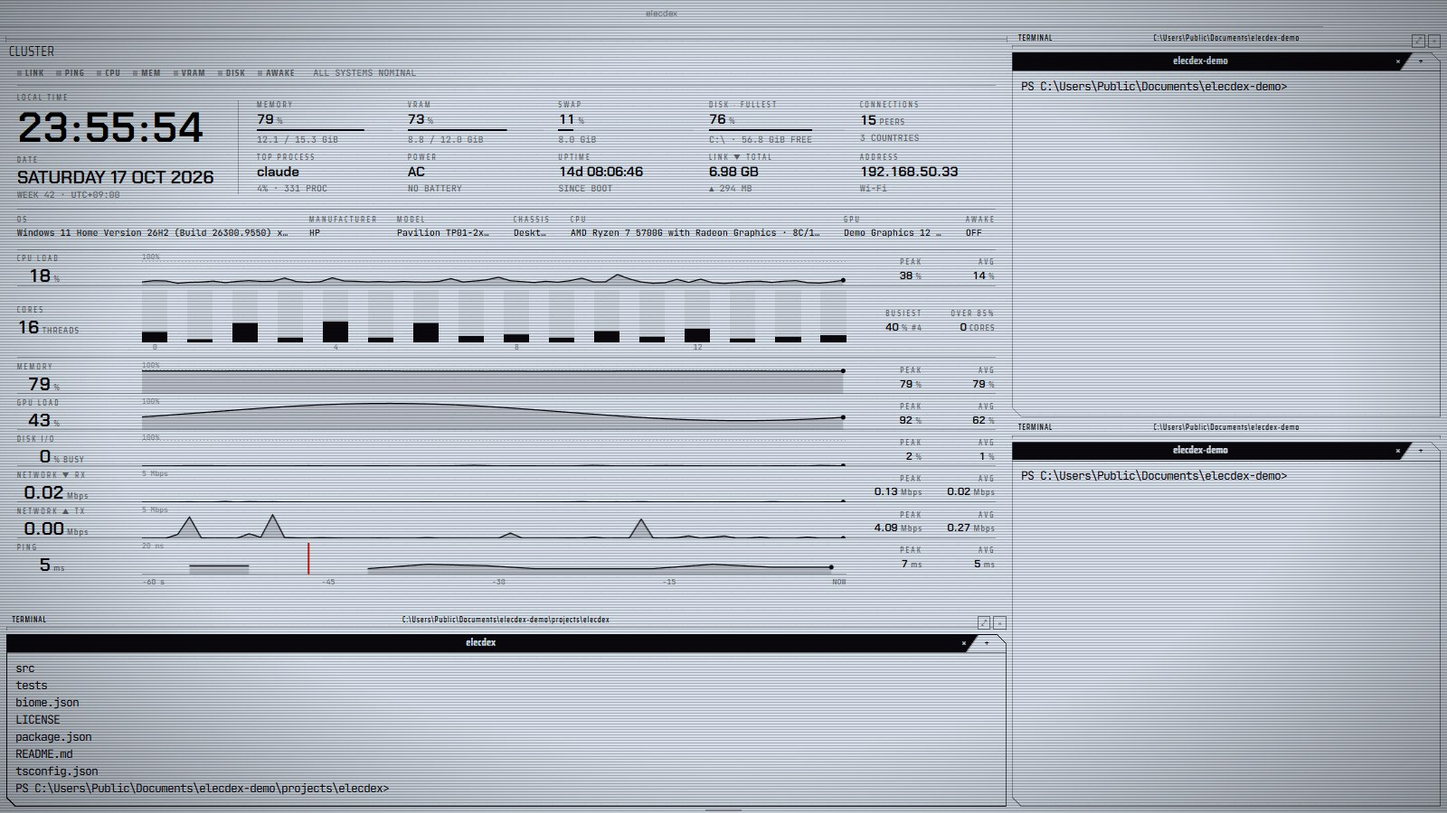
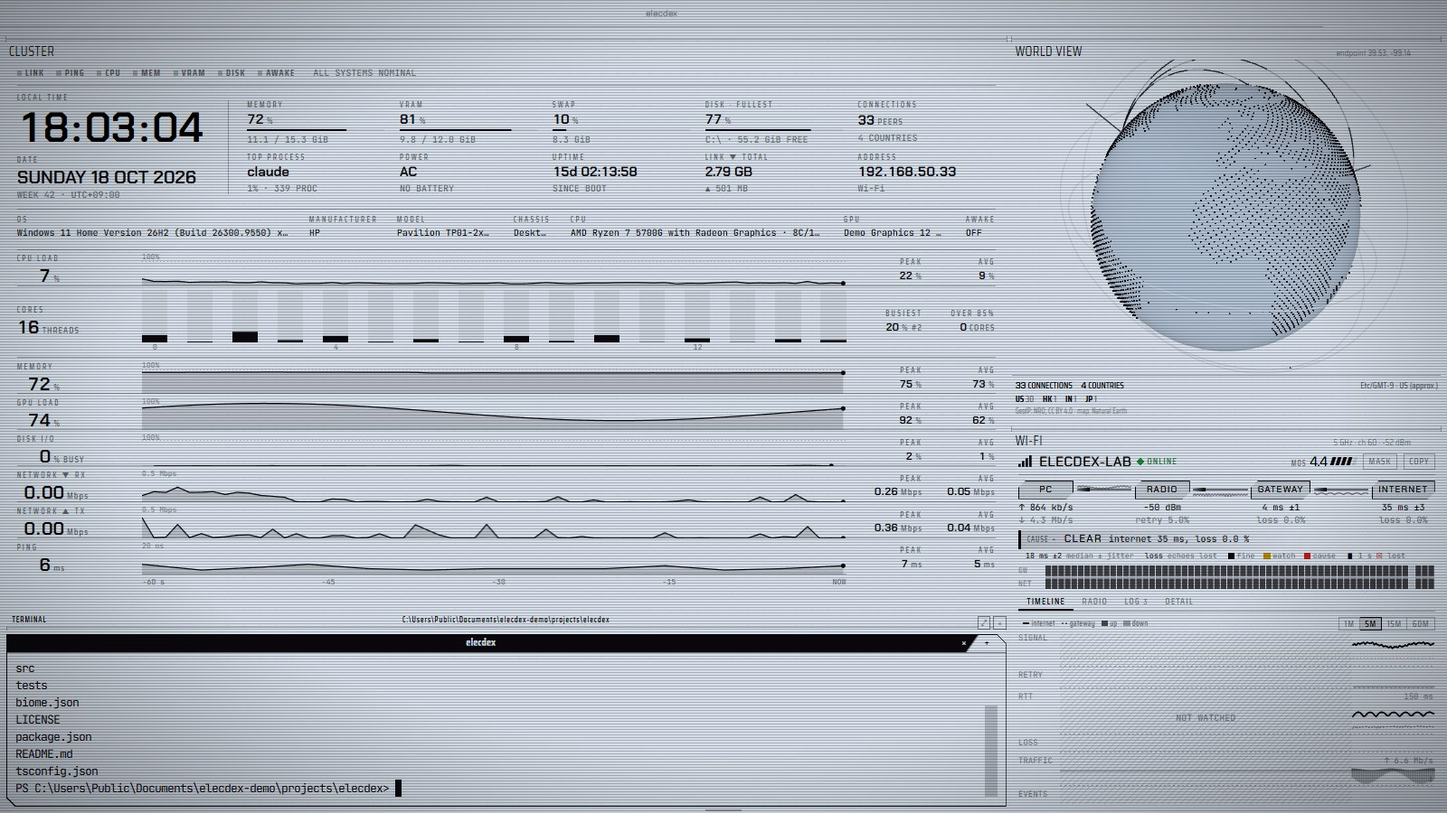
feat(layout): cockpit shows the world view over the Wi-Fi pane beside CLUSTER / cockpit で CLUSTER の右に world view と Wi-Fi を置く
The cockpit preset's right column held two shells; it now holds the world view on top and the Wi-Fi pane under it, and the shell under CLUSTER stays (user decision 2026-10-18). The unit test, the READMEs, the docs and the README shot follow. / cockpit プリセットの右列は上下 2 つのシェルだったが、上に world view、下に Wi-Fi ペインを置く。CLUSTER の下のシェルは残す（2026-10-18、利用者の指定）。単体テスト、README、ドキュメント、README のスクリーンショットも合わせる。

diff --git a/src/shared/layout-presets.ts b/src/shared/layout-presets.ts
@@ -206,18 +206,19 @@ export const LAYOUT_PRESETS: readonly LayoutPreset[] = [
   },
   {
     // The machine on one pane where the system column would be, large enough at 1600x900 to lay
-    // itself out at its widest with what the machine is and every core, a shell under it and two more one over the other beside it
-    // (user decision 2026-10-10). The one preset without the system column: CLUSTER says what
-    // the column does, and more.
+    // itself out at its widest with what the machine is and every core, a shell under it, and
+    // beside it the world view over the Wi-Fi pane (user decisions 2026-10-10, 2026-10-18). The
+    // one preset without the system column: CLUSTER says what the column does, and more.
     id: 'cockpit',
     name: 'cockpit',
-    description: 'the whole machine on one pane, with shells under it and beside it',
+    description:
+      'the whole machine on one pane, a shell under it, the world and the link beside it',
     build: () =>
       split(
         'row',
         [
           split('column', [pane('cluster'), pane('terminal')], [0.75, 0.25]),
-          split('column', [pane('terminal'), pane('terminal')], [0.5, 0.5]),
+          split('column', [pane('globe'), pane('wifi')], [0.5, 0.5]),
         ],
         [0.7, 0.3],
       ),

diff --git a/tests/unit/layout-presets.test.ts b/tests/unit/layout-presets.test.ts
@@ -197,8 +197,9 @@ describe('LAYOUT_PRESETS', () => {
   })
 
   it('gives cockpit the CLUSTER pane in place of the system column, at its widest with every core', () => {
-    // Three shells: one under CLUSTER, two one over the other on the right (user decision 2026-10-10).
-    expect(places('cockpit')).toEqual([['cluster'], ['terminal'], ['terminal'], ['terminal']])
+    // A shell under CLUSTER (user decision 2026-10-10); on the right the world view over the
+    // Wi-Fi pane (user decision 2026-10-18).
+    expect(places('cockpit')).toEqual([['cluster'], ['terminal'], ['globe'], ['wifi']])
     const shape = layoutShape(presetTree(presetById('cockpit') as LayoutPreset))
     expect(shape.some((r) => LEFT_COLUMN.includes(r.widget))).toBe(false)
     const cluster = shape.find((r) => r.widget === 'cluster')

diff --git a/docs/decisions.md b/docs/decisions.md
@@ -369,7 +369,7 @@
 | CLUSTER ペイン（2026-10-10、利用者の決定。詳細は cluster.md §0） | 1 枚のダッシュボード。main がすでに出しているもの（metrics のソース 12、AWAKE のストア、`quakes.observe`）だけを読み、main・preload・ほかのペインに手を入れない。LANES 案（警告灯、時計と日付、CPU・メモリ・ディスク I/O・RX・TX・PING の 60 秒のレーン、余裕があればコアごとの今、スロット）。値は届いたその場で描き、レーンは塗りのある折れ線で、値が届いたときに描き直すだけでアニメーションしない（2 コマで詰める動きは変に見え、棒は低い値が見えなかったので、利用者が見直した。流し続けず、StreamChart の 2 秒遅れも使わない）。CPU・メモリ・ディスク I/O は 0〜100%、ネットワークと PING は直近 1 分に合わせた目盛り。続く動きは 10 fps ループのコマ。当てはまらない警告灯（電池のない機械の BATT、地震の通知がオフの QUAKE）は出さない。設定は持たない | 置き場所を選ばない 1 枚で済ませるため。流し続けないので値と値の間は描かず、測ると 1920×1080 の全画面 1 枚で 1 コアの 10.3%（棒のときは 15.0%。折れ線の塗りを CPU ペインと同じ帯ごとのグラデーションにすると 35% かかったので、一色の薄い塗りにした）（時計だけ 5.7%、CPU・メモリ・通信量・ディスクの 4 ペインと時計で 24.1%、2026-10-10 Windows 11 で各 20 秒） |
 | CLUSTER の仕様の行（2026-10-10、利用者の提案と決定） | TYPE・OS・MANUFACTURER・MODEL・CHASSIS・CPU・INTERFACE・IPV4 を、standard のシステム列と network status と同じ言い方で 1 行に。ホスト名は出さない。高さが余るときだけ出す（wide で 510、medium で全部と 75 px）。cockpit の CLUSTER は高さを 7.5 割にし、コアの行は 600 から | cockpit ではシステム列が無いので、機械が何かが見えなくなる。段を下げてまで出すとレーンが減るので、余りにだけ置く |
 | CLUSTER のレビュー（2026-10-14） | 指摘を実際のコードで確かめて直した。赤い灯がタブの裏や最小化中もパルス（1 秒に 4 回の書き込み）を持っていた。レーンはサンプルのたびに観測を作り直し、ビットマップを 2 回作り直して 2 回描いていた。さらにどのソースの読み取りでもペインの表示が新しくなるたびに描き直しており、実測で 1 本あたり 1 秒に約 3 回（6 本で 3 秒に 54〜72 回）。大きさと色の準備と描画を分け、同じ秒と同じ面なら描かない（1 秒に 1 回）。隠れている間も毎秒表示全体を計算して捨てていた。狭い段でスクロールすると、カードがスクロール量だけ上にずれた（カードの層をスクロール位置に置く）。最初の計測を既定の段（wide）からの縮みとして判定していた。年の何日目が夏時間の日に 1 日少なかった。充電の割合を言わない電池を NO BATTERY と出していた。速度は読めて使用率を言わない OS のディスク I/O を `N/A` に。目盛りの文字を線の下に描く。ADDRESS のカードからインターフェース（スロットに出ている）を外した。`busiestCore` を使う。docs/cluster.md のファイル名を実際に合わせた。見送り: 灯を消すときの猶予と、隠れていた間の古い PING を灯の判定から外すこと（灯の規則に関わる）、`readColors` の他ペインとの共通化、時計の秒で全部の数字を作り直すこと、61 秒目の履歴、PING や Gbps の桁幅。 |
-| cockpit プリセット（2026-10-10、利用者の決定） | CLUSTER を左上（幅 7 割、高さ 7.5 割。高さは仕様の行を入れたときに 7 割から広げた）に、その下にシェル、右に上下 2 段のシェル。ai の後、retro の前の 8 番目に置き、キーは Ctrl+Shift+F8（retro は最後の 9 番目で F9 に。利用者の指定）。プリセットで唯一システム列を持たない（`WITH_SYSTEM_COLUMN`） | CLUSTER が列の役目を果たし、列を残すと表示が二重になり CLUSTER も狭くなる。7 割にしたのは、README のスクリーンショット（1600×900）でも wide の段でコアの行まで出るため |
+| cockpit プリセット（2026-10-10、利用者の決定） | CLUSTER を左上（幅 7 割、高さ 7.5 割。高さは仕様の行を入れたときに 7 割から広げた）に、その下にシェル、右に上下 2 段のシェル（右列は 2026-10-18 に world view と Wi-Fi に変更、利用者の指定）。ai の後、retro の前の 8 番目に置き、キーは Ctrl+Shift+F8（retro は最後の 9 番目で F9 に。利用者の指定）。プリセットで唯一システム列を持たない（`WITH_SYSTEM_COLUMN`） | CLUSTER が列の役目を果たし、列を残すと表示が二重になり CLUSTER も狭くなる。7 割にしたのは、README のスクリーンショット（1600×900）でも wide の段でコアの行まで出るため |
 | Black テーマ（2026-10-10、利用者の求め） | White を反転させたテーマ。文字（アクセント）は #0A080D、地は #D7E0EA（浮き上がる面は少し明るい #E4EAF1、格子は少し暗い #C4CEDA）。White と同じ走査線を引き、光彩はほんのわずか（0.1。淡い地ではインクのにじみになるため）。`mode: 'light'` で、状態色は暗めになり、xterm は淡い色を読める濃さまで引き上げる。README の cockpit の画像はこのテーマで撮る | 真っ白・真っ黒ではない、elec シリーズの色の組を明るい地で使うため |
 | ペイン基盤の見直し（2026-10-11、利用者の指示。v0.0.26） | キーボードのリセット（Ctrl+Shift+Backspace）はシェルが開いていれば切り替えと同じ確認を通す（`layout.confirmReset` → `mayReplace`、ダイアログの文言だけ reset）。`normalizeTree` は id を一意にしてから整える。分割・タブ追加は対象が無くなっていれば何もしない（フォーカスも音も変えない）。閉じている途中に 2 枚のタブのグループを閉じると、残った 1 枚を閉じる。保存の失敗（続く間は 1 回だけ）・リセットの失敗・もう無いレイアウトの適用はトーストで言い、最後のものは一覧を読み直す。シェルの掃除はペインの増減（`paneIds`）でだけ張り直す。ボタンのツールチップのキーは今の割り当てから（`chordHint`）。区切り線のダブルクリックで両隣の 2 つを等分（利用者の採用） | リセットも全シェルを終わらせるのに、キー 1 打だけ確認が無かった（2026-09-20 の切り替え確認の決定と食い違い）。重複 id は Svelte が本番でも例外を投げて画面が描けなくなる。ほかは読み取りレビュー（Fable 5.1 の検証つき）で見つかった、操作が黙って消える・何も起きない箇所。取り消しトースト、落とす位置が変わらないときのプレビュー抑止、タブの中クリックは見送り（利用者の判断。落とした先の半分を取るのは仕様どおり） |
 | e16c の -O1 と -O2 をもう一段詰める（2026-10-11、利用者の指示） | -O2: 展開した関数の引数が定数・局所変数・番地のどれか 1 つの操作で、関数がその引数に書かないなら、引数の置き場に入れずにその操作を読む。何も読み書きしなくなった置き場は消す。-O1: 符号なしの、2 の累乗でない定数での割り算を MULHU とシフトに（Granlund と Montgomery。16 ビットの乗数がなければ割る数の 2 の因数で先に割り、それでもなければ 17 ビットの乗数を足し戻す）、余りはその商に割る数を掛けて引く | 外からの最適化の提案（コピー伝播、CSE、強度削減、LICM、のぞき穴、展開の基準、DSE、末尾呼び出し）を実際の出力で確かめた。置き場に入れた定数は -O1 の定数の扱いに届かず、`scale(a, 4)` が `li`・`mv`・`mul` になっていた。展開した関数の置き場は BASIC で 21 のうち 20 がフレーム、ELECFIGHTER で 15 のうち 9 が s レジスタを取っていた。定数の割り算は BASIC に 11、ゲームに 7〜50 か所（/10、/60、/100 など）。割り算の方法は 65,533 の割る数とすべての割られる数（約 43 億組）で DIVU と同じ答えになることを確かめた（7 秒）。先に割る形で、17 ビットの形が要る割る数は 20,291 から 10,026 に減った。大きさ: 引数の扱いだけで BASIC の固定 ROM は変わらず（BC1E）、ゲームの RAM のコードは 12〜52 バイト減る。割り算を足すと固定 ROM は BC52（残り 942 バイト）、PLAY の ROM は 6 バイト増え、ゲームは ELECAIRCOMBAT +14、ELECDRILL +108、ELECFIGHTER -42、ELECLANCE +90 バイト。説明書の例の -O1 のサイクルは 3〜6% 減った（`fact` 1,449 → 1,362、符号付きの数を書く 4,008 → 3,840）。取らなかったもの: CSE と LICM（値を持ち越す置き場が要り、関数を呼ぶ関数の局所変数には s レジスタが 3〜4 つしかない）、のぞき穴の表（`add rd, rs, zero` などは出力に現れない。「何もしない形は不正」は ISA の符号化の決まりで出力とは別）、DSE（局所変数はレジスタ）、末尾呼び出し（後始末を呼ぶ所ごとに写すので ROM が増え、far_call には使えない）、展開の基準（呼ぶ所が 1 つ、葉だけ、は既にそう）。残したもの: 生存区間の重ならない局所変数で置き場を分け合う（フレームの関数が 1 つの像に 40〜71）、一時レジスタで計算してから引数のレジスタへ移す `mv`。説明書の表は測り直した（ライブラリが育って -O0 と -O1 のバイト数が古く、11.2、11.5、11.8 は -O0 で入らなくなっていた）。ELECFIGHTER の運は時計とサイクル数から取るので、コードが速くなると負けるラウンドが入れ替わる: 連打のテストの 2 つが落ち、時計の秒を選び直した（1 マス 8 つの時計で、ジャブの連打が取ったラウンドは 11/64 → 12/64、しゃがみ弱キックは 0/32 → 2/32、投げは 0/8 のまま） |

diff --git a/README.zh-CN.md b/README.zh-CN.md
@@ -158,10 +158,10 @@ elecdex 启动时的默认布局，即页首那张图（Tron）。
   REJECT 或 ABSTAIN，窗格按多数决或全体一致作出决议。席位使用 AI 聊天的提供方——三个席位都用
   同一个模型也可以。
 
-### cockpit — 整台机器放进一个面板，再加上 shell
+### cockpit — 整台机器放进一个面板，再加上 shell、世界和链路
 
 <p align="center">
-  <img src="./docs/screenshots/elecdex-cockpit.jpg" alt="Black 主题（浅色底、近黑文字和扫描线）下的 cockpit 预设：左上方以 CLUSTER 面板取代系统栏——一排警示灯和 ALL SYSTEMS NOMINAL，日期上方的时钟，旁边两排各五个数值：内存、显存、交换区、最满的磁盘、连接对象数、最忙的程序、电源、运行时间、链路累计流量和地址，其下一行是操作系统、制造商、型号、机箱、CPU、虚构的 GPU 和 AWAKE；再下面是 CPU 最近一分钟的折线、十六个核心各一根柱，以及内存、GPU、磁盘 I/O、网络下行与上行和 PING 的折线及其峰值与平均值；其下是一个 shell，右侧是上下排列的两个 shell">
+  <img src="./docs/screenshots/elecdex-cockpit.jpg" alt="Black 主题（浅色底、近黑文字和扫描线）下的 cockpit 预设：左上方以 CLUSTER 面板取代系统栏——一排警示灯和 ALL SYSTEMS NOMINAL，日期上方的时钟，旁边两排各五个数值：内存、显存、交换区、最满的磁盘、连接对象数、最忙的程序、电源、运行时间、链路累计流量和地址，其下一行是操作系统、制造商、型号、机箱、CPU、虚构的 GPU 和 AWAKE；再下面是 CPU 最近一分钟的折线、十六个核心各一根柱，以及内存、GPU、磁盘 I/O、网络下行与上行和 PING 的折线及其峰值与平均值；其下是一个 shell；右侧上方是向连接对象画出弧线的地球视图，下方是虚构链路的 Wi-Fi 面板">
   <br><sub>cockpit · Black</sub>
 </p>
 
@@ -404,7 +404,7 @@ elecdex 在前台时按下它会把 elecdex 收起；在其他地方按下则把
 列表下方有九个**预设**，每个都画成其窗格的小地图：**standard**（默认布局）、
 **network**（地球和 shell，旁边是 Wi-Fi 和连接）、**earth**（ORBIT、地球、地震和天气）、**dev**（AI AGENT；
 Docker 和 shell；剪贴板、计时器和 shell；GIT、AI 聊天和 Log Watch——每组都是标签页）、**media**（YouTube (TV)，下方是正在播放、频谱和混音器，X 和 RSS 作为标签页）、
-**desk**（记事、计时器、计算器、任务、日历、剪贴板和实用工具）、**ai**（上下两个 AI 聊天，以及位于 GPU 窗格之上的 ELEC system）、**cockpit**（以 CLUSTER 面板取代系统栏，下方一个 shell，右侧上下两个 shell）以及 **retro**（ELEC-16 和 CHIP-8 作为一个窗格的标签页，下方是 16 段频谱）。除 cockpit 外，每个预设都把系统栏留在左侧，所以切换时换的是
+**desk**（记事、计时器、计算器、任务、日历、剪贴板和实用工具）、**ai**（上下两个 AI 聊天，以及位于 GPU 窗格之上的 ELEC system）、**cockpit**（以 CLUSTER 面板取代系统栏，下方一个 shell，右侧上方是地球视图、下方是 Wi-Fi）以及 **retro**（ELEC-16 和 CHIP-8 作为一个窗格的标签页，下方是 16 段频谱）。除 cockpit 外，每个预设都把系统栏留在左侧，所以切换时换的是
 舞台，仪表仍在原处。选择一个预设会用它新建一个布局并切换过去——此后它就是你的布局之一，
 跟随你的工作——再次选择它会回到那个布局，而不会再新建一个；↺ 把它恢复为预设原样。每个预设
 都有自己的按键 Ctrl+Shift+F1 到 F9，在任何地方都能做同样的事。全新安装时，这九个预设会占据

diff --git a/README.md b/README.md
@@ -178,10 +178,10 @@ The arrangement elecdex opens with, in the picture at the top (Tron).
   by majority or unanimity. The seats use the providers of the AI chat - the same model in all
   three will do.
 
-### cockpit — the whole machine on one pane, and the shells
+### cockpit — the whole machine on one pane, a shell, the world and the link
 
 <p align="center">
-  <img src="./docs/screenshots/elecdex-cockpit.jpg" alt="The cockpit preset in the Black theme, near-black on a pale ground with scanlines: the CLUSTER pane in the top left in place of the system column - the lamps in a row with ALL SYSTEMS NOMINAL, the clock over the date, memory, VRAM, swap, the fullest disk, connections, the busiest program, power, uptime, the link's total and the address beside them in two rows of five, a line of the OS, maker, model, chassis, CPU, a made-up GPU and AWAKE, then a minute of CPU as a line, a bar for each of sixteen cores, memory, GPU, disk I/O, network down and up and ping as lines with their peaks and averages - a shell under it and two shells one over the other on the right">
+  <img src="./docs/screenshots/elecdex-cockpit.jpg" alt="The cockpit preset in the Black theme, near-black on a pale ground with scanlines: the CLUSTER pane in the top left in place of the system column - the lamps in a row with ALL SYSTEMS NOMINAL, the clock over the date, memory, VRAM, swap, the fullest disk, connections, the busiest program, power, uptime, the link's total and the address beside them in two rows of five, a line of the OS, maker, model, chassis, CPU, a made-up GPU and AWAKE, then a minute of CPU as a line, a bar for each of sixteen cores, memory, GPU, disk I/O, network down and up and ping as lines with their peaks and averages - a shell under it; on the right the world view globe with arcs to where connections go, over the Wi-Fi pane on a made-up link">
   <br><sub>cockpit · Black</sub>
 </p>
 
@@ -456,7 +456,7 @@ Nine **presets** sit under the list, each drawn as a small map of its panes:
 **standard** (the default layout), **network** (the globe and shells, beside Wi-Fi and connections), **earth**
 (ORBIT, the globe, quakes and the weather), **dev** (AI AGENT; Docker and a shell; the clipboard, a timer and a shell; GIT, an AI chat and Log Watch - each group as tabs), **media**
 (YouTube (TV) with what is playing, the spectrum and the mixer beneath, X and RSS as tabs) and **desk** (notes, a timer,
-the calculator, tasks, the calendar, the clipboard and the utility pane) **ai** (two AI chats one over the other, and the ELEC system over the GPU pane), **cockpit** (the CLUSTER pane in place of the system column, a shell under it and two one over the other beside it) and **retro** (the ELEC-16 and the CHIP-8 as tabs of one pane, the spectrum at sixteen bands under them). Every one but cockpit keeps the system column on the left, so a switch
+the calculator, tasks, the calendar, the clipboard and the utility pane) **ai** (two AI chats one over the other, and the ELEC system over the GPU pane), **cockpit** (the CLUSTER pane in place of the system column, a shell under it, and the world view over the Wi-Fi pane beside it) and **retro** (the ELEC-16 and the CHIP-8 as tabs of one pane, the spectrum at sixteen bands under them). Every one but cockpit keeps the system column on the left, so a switch
 changes the stage and leaves the instruments where they were. Choosing a preset adds a layout made
 from it and goes there - from then on it is one of your layouts, following your work - and choosing
 it again goes back to that layout rather than adding another; ↺ puts it back to the preset. Each

diff --git a/docs/architecture.md b/docs/architecture.md
@@ -505,7 +505,7 @@ Web ページをペインに表示する。**汎用の Web ウィジェット 1 
 
 **プリセット**（`shared/layout-presets.ts`、2026-09-24）: 用途別の配置を組み込みで持つ。standard（既定
 レイアウトそのもの）/ network（地球儀・connections を 3:2・シェル）/ earth（ORBIT・地球儀・地震・天気・シェル）/
-dev（AI AGENT、Docker とシェルのタブ、clipboard・timer・シェルのタブを縦に、右に GIT と AI チャットと LOG WATCH のタブ（LOG WATCH は 2026-10-12 追加、§5.21）。前面は見えている間だけ読む Docker と clipboard と、差分に全高が要る GIT。§5.17。2026-10-01 に利用者の指定で組み直した）/ media（YouTube (TV)、その下に now playing・spectrum・mixer、X と RSS のタブ。§5.15）/ desk（3 列: notes の下に timer と calculator、tasks の下に clipboard、calendar の下に utility。シェルなし。clipboard は見えている間だけ読むのでタブに重ねない。§5.14。2026-09-27 に utility を入れるため 2 列から組み直した。§5.16）/ ai（AI チャット 2 つを上下に、右の広い列に ELEC system。§5.7・§5.8。2026-10-01 追加）/ cockpit（左上に CLUSTER、その下にシェル、右に上下 2 段のシェル。§5.20。2026-10-10 追加）/ retro（ELEC-16 と CHIP-8 をタブにした 1 つのペイン、その下に 16 バンドの spectrum。§5.18・§5.19。2026-10-04 追加。2026-10-10 に cockpit の後ろ、最後へ）の 9 つ。cockpit 以外は既定の左カラム（システム列）を同じ幅・同じ高さで
+dev（AI AGENT、Docker とシェルのタブ、clipboard・timer・シェルのタブを縦に、右に GIT と AI チャットと LOG WATCH のタブ（LOG WATCH は 2026-10-12 追加、§5.21）。前面は見えている間だけ読む Docker と clipboard と、差分に全高が要る GIT。§5.17。2026-10-01 に利用者の指定で組み直した）/ media（YouTube (TV)、その下に now playing・spectrum・mixer、X と RSS のタブ。§5.15）/ desk（3 列: notes の下に timer と calculator、tasks の下に clipboard、calendar の下に utility。シェルなし。clipboard は見えている間だけ読むのでタブに重ねない。§5.14。2026-09-27 に utility を入れるため 2 列から組み直した。§5.16）/ ai（AI チャット 2 つを上下に、右の広い列に ELEC system。§5.7・§5.8。2026-10-01 追加）/ cockpit（左上に CLUSTER、その下にシェル、右に world view と、その下に Wi-Fi。§5.20。2026-10-10 追加、右列は 2026-10-18 にシェル 2 つから変更）/ retro（ELEC-16 と CHIP-8 をタブにした 1 つのペイン、その下に 16 バンドの spectrum。§5.18・§5.19。2026-10-04 追加。2026-10-10 に cockpit の後ろ、最後へ）の 9 つ。cockpit 以外は既定の左カラム（システム列）を同じ幅・同じ高さで
 左端に持つので、切り替えると計器盤はそのままで右の舞台だけが替わって見える。cockpit だけは、CLUSTER が列の役目を果たすので列を持たない（2026-10-10、利用者の決定。`WITH_SYSTEM_COLUMN`）。名前は ORBIT ペインと重ならない
 ように earth にした（利用者の判断）。
 

diff --git a/docs/cluster.md b/docs/cluster.md
@@ -25,6 +25,7 @@
 | 2026-10-10 | プリセットは実装の最後に足す。CLUSTER の右と下（または右か下）にターミナル | 利用者の案 |
 | 2026-10-10 | 名前はペインが `cluster`（見出し CLUSTER、ピッカーは cluster dashboard）、プリセットが `cockpit` | 利用者の選択 |
 | 2026-10-10 | cockpit プリセットだけはシステム列を持たない例外にする。CLUSTER が左上、その右と下にターミナル | 利用者の選択（中身がシステム列と重なるため） |
+| 2026-10-18 | cockpit の右列を、上下 2 段のシェルから world view（上）と Wi-Fi（下）に変える。CLUSTER の下のシェルは残す | 利用者の指定 |
 | 2026-10-10 | レーンとコアの棒はアニメーションしない。値が届いたら棒を 1 本足して描き直すだけ。右端へ滑り込む先頭の点の動きもやめる（最新の値の点そのものは描く。§5、2026-10-14 に利用者が確認） | 利用者の指定（2 コマで詰める動きが変に見えた） |
 | 2026-10-10 | レーンは棒でなく塗りのある折れ線（CPU ペインと同じ描き方）。CPU・メモリ・ディスク I/O は 0〜100%、ネットワーク（RX と TX で共通）と PING は直近 1 分の最大に合わせた切りのよい目盛りで、上端をレーンに書く。対数目盛りはやめる | 利用者の指摘（PING とネットワークの棒が低すぎて見えない） |
 | 2026-10-10 | 時計・スロットとレーンのあいだに「仕様の行」を置く。standard のシステム列と network status と同じ TYPE・OS・MANUFACTURER・MODEL・CHASSIS・CPU（コアとスレッド）・INTERFACE・IPV4。ホスト名は出さない。wide は 1 行、medium は 4 列×2 行、narrow は最後に 2 列。高さが余るときだけ出し、段を下げない | 利用者の提案（cockpit ではシステム列が無く、機械が何かが見えない） |
@@ -218,7 +219,7 @@
 
 ### 6.1 cockpit プリセット
 
-- **並び**: CLUSTER を左上（幅 7 割、高さ 7.5 割。仕様の行が入って 7 割から広げた）に置き、その下にシェル、右に高さいっぱいの上下 2 段のシェル
+- **並び**: CLUSTER を左上（幅 7 割、高さ 7.5 割。仕様の行が入って 7 割から広げた）に置き、その下にシェル、右に高さいっぱいの上下 2 段で world view と Wi-Fi（2026-10-18、利用者の指定。それまではシェル 2 つ）
   - README のスクリーンショット（1600×900）でも CLUSTER が wide の段でコアの行まで出る大きさにする（単体テストが `clusterTier` で確かめる）
   - 各ペインの `minSize` は守る
 - **システム列の例外**: このプリセットだけシステム列を持たない（2026-10-10、利用者の選択）
